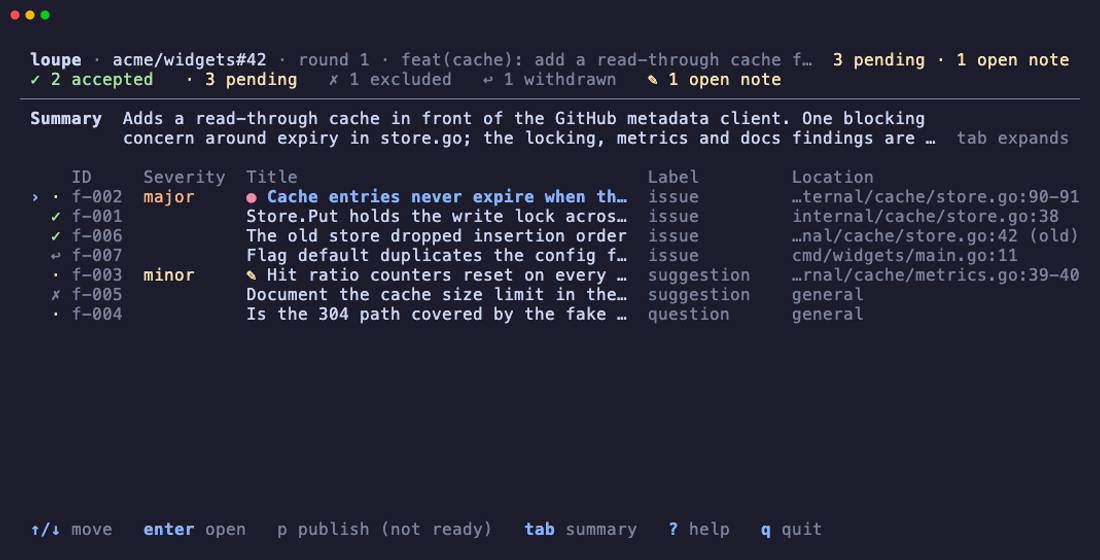
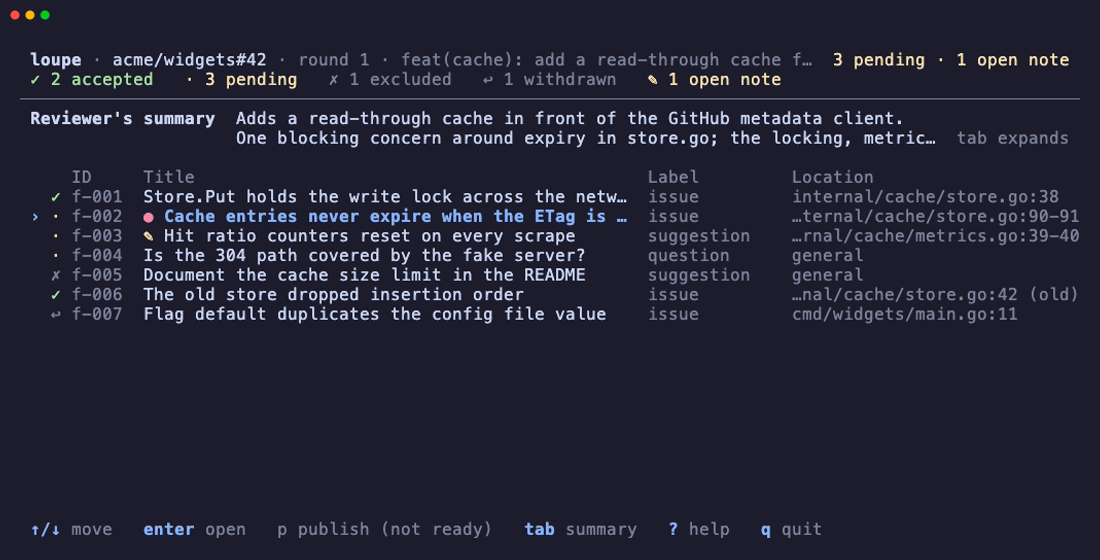
docs: end the walkthrough on the human writing the review
The gif closed on p, enter, enter, y: four keystrokes with nothing of
the human in them, which is the wrong last thing to see in a tool whose
claim is that nothing posts under your name unread. It now ends on the
opening sentence being typed into the body where it will appear, then
esc and y.

The publish still is taken with that sentence written rather than with
an empty box, so the one frame carries the whole idea, and the board
still shows the summary under its new heading.

diff --git a/README.md b/README.md
@@ -4,7 +4,7 @@
 
 loupe collects a review agent's findings into a local draft so you decide each one and publish a single GitHub review.
 
-![Steps 2 and 3: accepting the blocking finding, closing out the agent's answer to an earlier send-back, dropping a finding, then publishing one review.](docs/assets/walkthrough.gif)
+![Accepting the blocking finding, closing out the agent's answer to an earlier send-back, dropping a finding, then writing the review's opening sentence into the body and sending it with one key.](docs/assets/walkthrough.gif)
 
 ## Why loupe
 
@@ -32,13 +32,13 @@ loupe --version
 
 In a clone, `mise run demo` opens `loupe review` on seeded runs against an in-memory GitHub, so the interface and the whole publish flow, `y` included, can be tried end to end. Nothing leaves the machine. `mise run demo -- <loupe args>` runs any other command: `acme/widgets#42` is mid-review, `#43` is ready to publish, and `#44` is ready with a moved head.
 
-The board, one finding, and the last screen before anything is sent:
+The board, one finding, and the last screen before anything is sent, where you write the review's opening:
 
-![The findings board: seven findings with their decision, severity, label and location, in the order the published review puts them, over a summary that tab expands.](docs/assets/list.png)
+![The findings board: seven findings with their decision, severity, label and location, in the order the published review puts them, over the reviewer's summary that tab expands.](docs/assets/list.png)
 
 ![One finding: the hunk it points at, why it matters, a suggested fix, and a send-back note the agent has answered and you have resolved.](docs/assets/detail.png)
 
-![Step 3 of publish: the exact Markdown the review will carry, your own opening typed into it, and one key that sends it.](docs/assets/publish.png)
+![Step 3 of publish: the exact Markdown the review will carry, with your own opening typed into the body where it will appear, and one key that sends it.](docs/assets/publish.png)
 
 ## Setting up an agent
 
